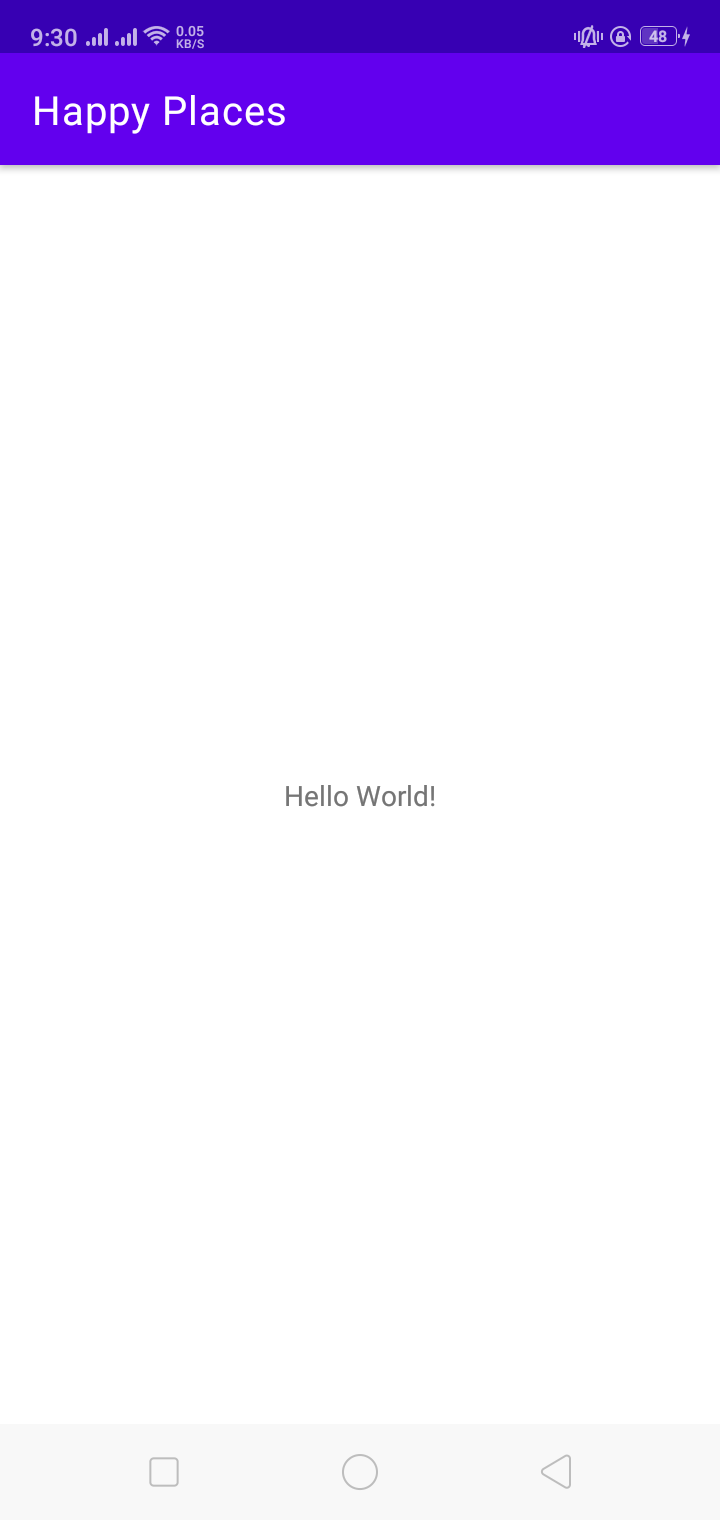
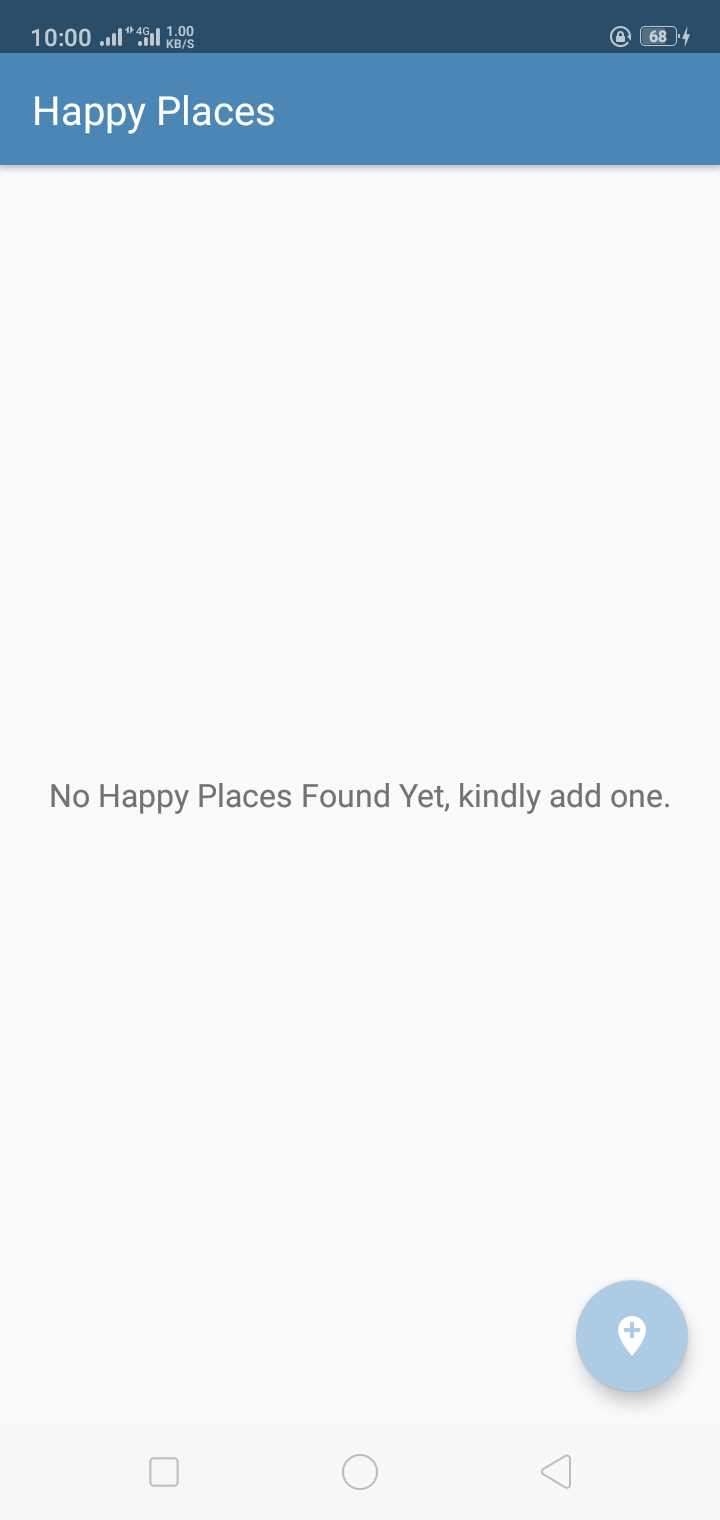
Project completed (Note: need to replace depreciated functions)

diff --git a/README.md b/README.md
@@ -1,4 +1,31 @@
 # Happy Places
 
-## Base Screen (Template)
+## Initial View
 ![screenshot1](screenshots/screen01.png)
+
+## Entering a new record
+![screenshot1](screenshots/screen02.png)
+
+## Searching City using Google Places API
+![screenshot1](screenshots/screen03.png)
+
+## Gallery or Camera
+![screenshot1](screenshots/screen04.png)
+
+## Select image using supported external apps
+![screenshot1](screenshots/screen05.png)
+
+## Thumbnail preview of the selected image
+![screenshot1](screenshots/screen06.png)
+
+## List of saved records
+![screenshot1](screenshots/screen07.png)
+
+## Editing an existing record
+![screenshot1](screenshots/screen08.png)
+
+## Viewing an existing record
+![screenshot1](screenshots/screen09.png)
+
+## Viewing location on the map using Google Maps API
+![screenshot1](screenshots/screen10.png)
